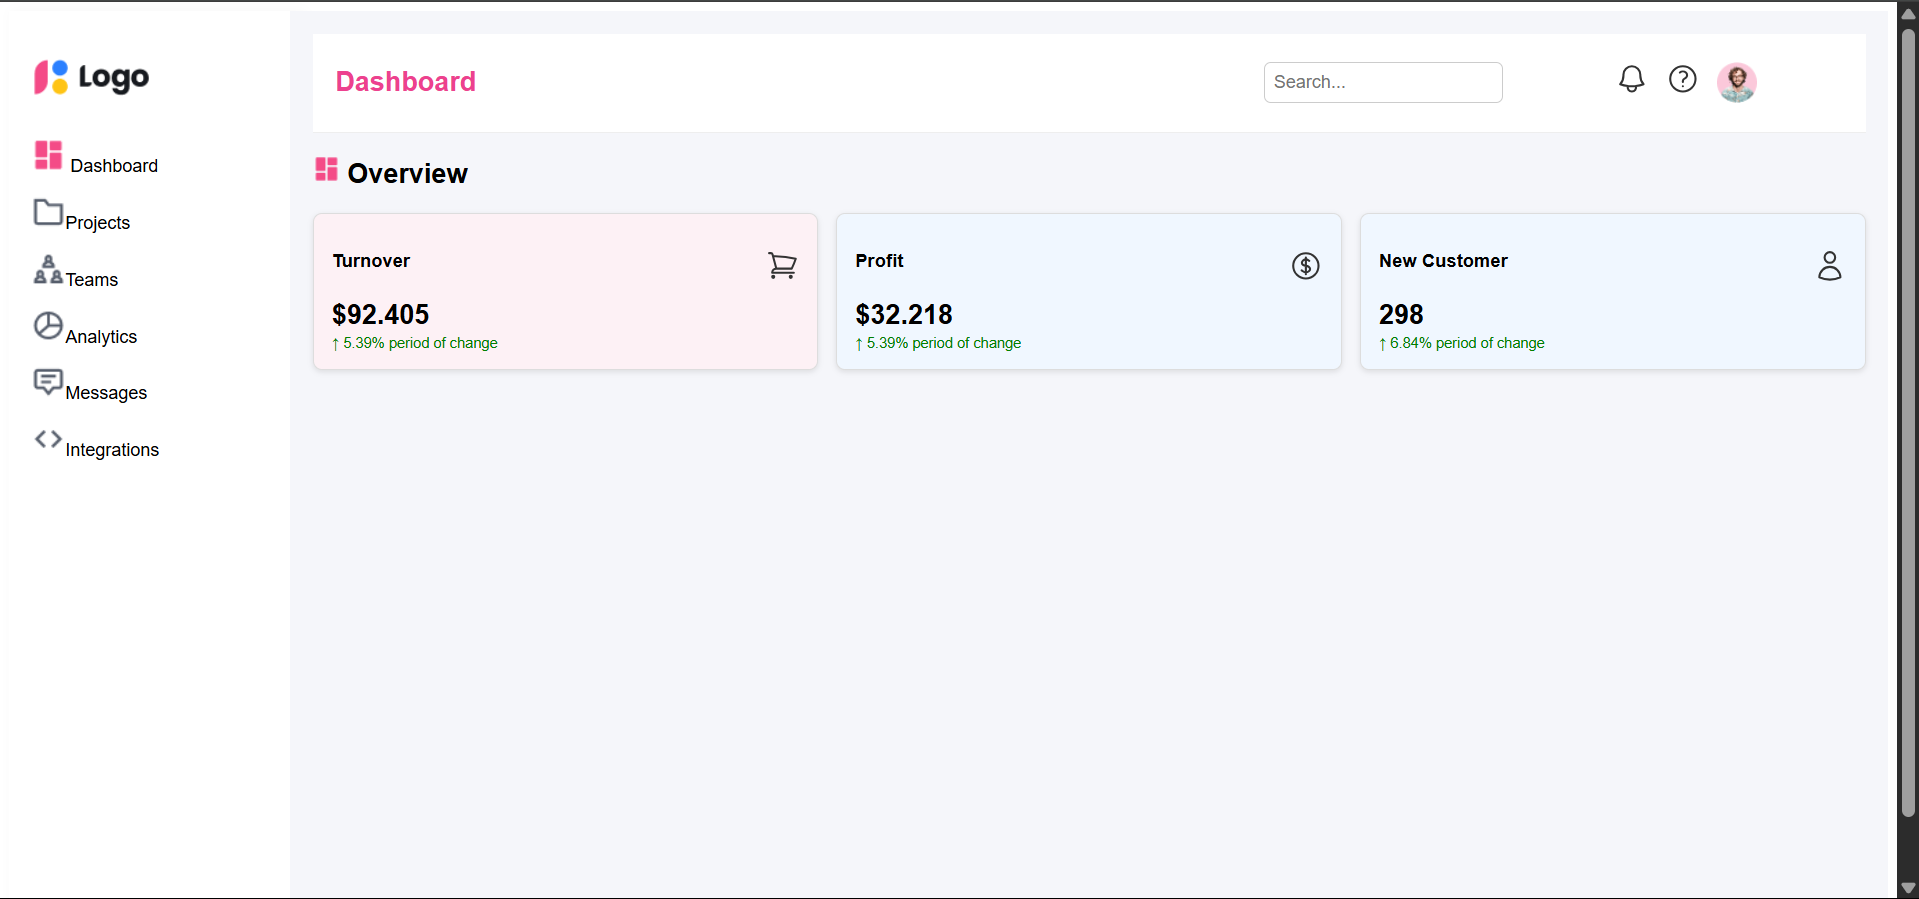
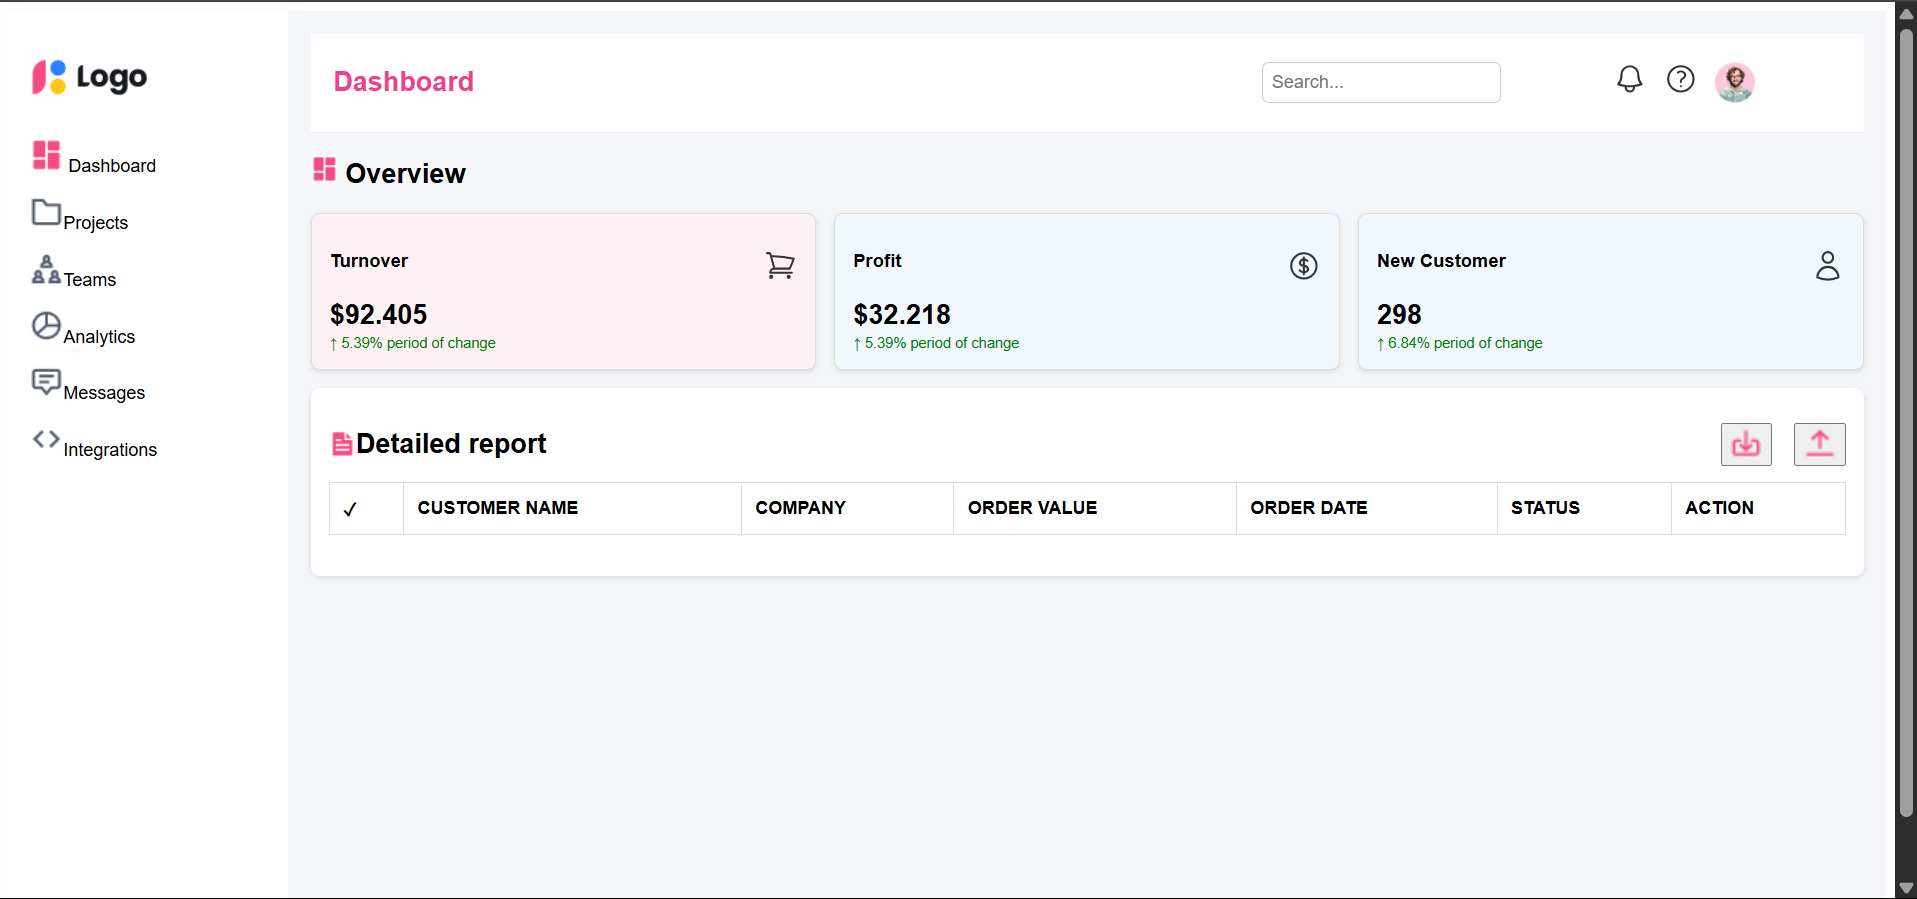
Datatable --> commit

diff --git a/TK2/src/components/UserTable.jsx b/TK2/src/components/UserTable.jsx
@@ -1,0 +1,122 @@
+import React, { useState } from 'react';
+import '../App.css';
+import { PencilIcon } from '@heroicons/react/24/outline';
+// import EditModal from '../EditModal';
+import input from "../assets/IMG/Move up.png";
+import text from "../assets/IMG/File text 1.png";
+import download from "../assets/IMG/Download.png";
+
+const UserTable = ({ users, onUserSave }) => {
+  const [selectedUser, setSelectedUser] = useState(null);
+  const [checkedUserId, setCheckedUserId] = useState(null);
+  const [currentPage, setCurrentPage] = useState(1);
+  const itemsPerPage = 6;
+
+  const totalPages = Math.ceil(users.length / itemsPerPage);
+  const startIndex = (currentPage - 1) * itemsPerPage;
+  const selectedUsers = users.slice(startIndex, startIndex + itemsPerPage);
+
+  const handleCheckboxChange = (userId) => {
+    setCheckedUserId(prev => (prev === userId ? null : userId));
+  };
+
+  const formatDate = (dateStr) => {
+    const date = new Date(dateStr);
+    const day = String(date.getDate()).padStart(2, "0");
+    const month = String(date.getMonth() + 1).padStart(2, "0");
+    const year = date.getFullYear();
+    return `${day}/${month}/${year}`;
+  };
+
+  return (
+    <div className="table-container">
+      <span className='box'>
+        <span className='box'><img src={text} alt="" /><h2> Detailed report</h2></span>
+        <span className='box' style={{ gap: '20px' }}>
+          <button
+            type='button'
+            onClick={() => setSelectedUser({
+              id: null,
+              name: '',
+              company: '',
+              ordervalue: '',
+              orderdate: new Date().toISOString().slice(0, 10),
+              status: 'New',
+            })}
+          >
+            <img src={download} alt="" className='icon' />
+          </button>
+          <button type='button'><img src={input} alt="" className='icon' /></button>
+        </span>
+      </span>
+
+      <table className="data-table">
+        <thead>
+          <tr>
+            <th>✓</th>
+            <th>CUSTOMER NAME</th>
+            <th>COMPANY</th>
+            <th>ORDER VALUE</th>
+            <th>ORDER DATE</th>
+            <th>STATUS</th>
+            <th>ACTION</th>
+          </tr>
+        </thead>
+        <tbody>
+          {selectedUsers.map((user) => (
+            <tr key={user.id}>
+              <td>
+                <input
+                  type="checkbox"
+                  checked={checkedUserId === user.id}
+                  onChange={() => handleCheckboxChange(user.id)}
+                />
+              </td>
+              <td>{user.name}</td>
+              <td>{user.company}</td>
+              <td>${user.ordervalue}</td>
+              <td>{formatDate(user.orderdate)}</td>
+              <td>
+                <span className={`status ${user.status.toLowerCase()}`}>
+                  {user.status}
+                </span>
+              </td>
+              <td>
+                <PencilIcon
+                  className="icon"
+                  onClick={() => setSelectedUser(user)}
+                />
+              </td>
+            </tr>
+          ))}
+        </tbody>
+      </table>
+
+      {/* Pagination */}
+      <div className="pagination">
+        {[...Array(totalPages)].map((_, index) => (
+          <button
+            key={index}
+            className={`page-btn ${currentPage === index + 1 ? 'active' : ''}`}
+            onClick={() => setCurrentPage(index + 1)}
+          >
+            {index + 1}
+          </button>
+        ))}
+      </div>
+
+      {selectedUser && (
+        <EditModal
+          user={selectedUser}
+          onClose={() => setSelectedUser(null)}
+          onSave={(updatedUser) => {
+            onUserSave(updatedUser);
+            setSelectedUser(null);
+          }}
+        />
+      )}
+    </div>
+  );
+};
+
+export default UserTable;

diff --git a/TK2/src/pages/UserManagement.jsx b/TK2/src/pages/UserManagement.jsx
@@ -1,0 +1,45 @@
+import React, { useEffect, useState } from "react";
+// import { getUsers, createUser, updateUser } from "../Services/userApi";
+import UserTable from "../components/UserTable";
+
+const UserManagement = () => {
+  const [users, setUsers] = useState([]);
+
+  const fetchData = async () => {
+    try {
+      const data = await getUsers();
+      setUsers(data);
+    } catch (err) {
+      console.error("Error fetching users:", err);
+    }
+  };
+
+  useEffect(() => {
+    fetchData();
+  }, []);
+
+  const handleUserSave = async (savedUser) => {
+    try {
+      if (!savedUser.id) {
+        // Thêm mới
+        await createUser(savedUser);
+      } else {
+        // Cập nhật
+        await updateUser(savedUser.id, savedUser);
+      }
+
+      // Load lại danh sách user sau khi thêm hoặc cập nhật
+      await fetchData();
+    } catch (error) {
+      console.error("Error saving user:", error);
+    }
+  };
+
+  return (
+    <div>
+      <UserTable users={users} onUserSave={handleUserSave} />
+    </div>
+  );
+};
+
+export default UserManagement;

diff --git a/TK2/src/components/MainLayout.jsx b/TK2/src/components/MainLayout.jsx
@@ -5,15 +5,18 @@ import Topbar from "./Topbar";
 import Overview from "../components/Overview";
 import dashboard from "../assets/IMG/Squares four 1.png"
 import "../App.css"
+import Dashboard from "../pages/Dashboard";
 function MainLayout() {
     return (
       <div className="layout">
         <Sidebar />
         <div className="main-content">
           <Topbar />
+          
           <div className="content">
           <h1 style={{ fontSize: '24px', marginBottom: '20px' }}><img src={dashboard} alt="" /> Overview</h1>
           <Overview />
+          <Dashboard></Dashboard>
             {/* <Outlet /> */}
           </div>
         </div>

diff --git a/TK2/src/App.css b/TK2/src/App.css
@@ -284,3 +284,25 @@ select {
 .btn.cancel:hover {
     background-color: #bdbdbd;
 }
+
+.pagination {
+    margin-top: 20px;
+    display: flex;
+    justify-content: flex-end;
+    gap: 8px;
+}
+
+.page-btn {
+    padding: 6px 12px;
+    background: #f3f4f6;
+    border: none;
+    border-radius: 6px;
+    color: #374151;
+    cursor: pointer;
+    font-size: 14px;
+}
+
+.page-btn.active {
+    background: #4f46e5;
+    color: white;
+}

diff --git a/TK2/src/pages/Dashboard.jsx b/TK2/src/pages/Dashboard.jsx
@@ -1,0 +1,9 @@
+import React from "react";
+import UserManagement from '../pages/UserManagement';
+function Dashboard() {
+    return ( <div>
+        <UserManagement></UserManagement>
+      </div> );
+}
+
+export default Dashboard;
